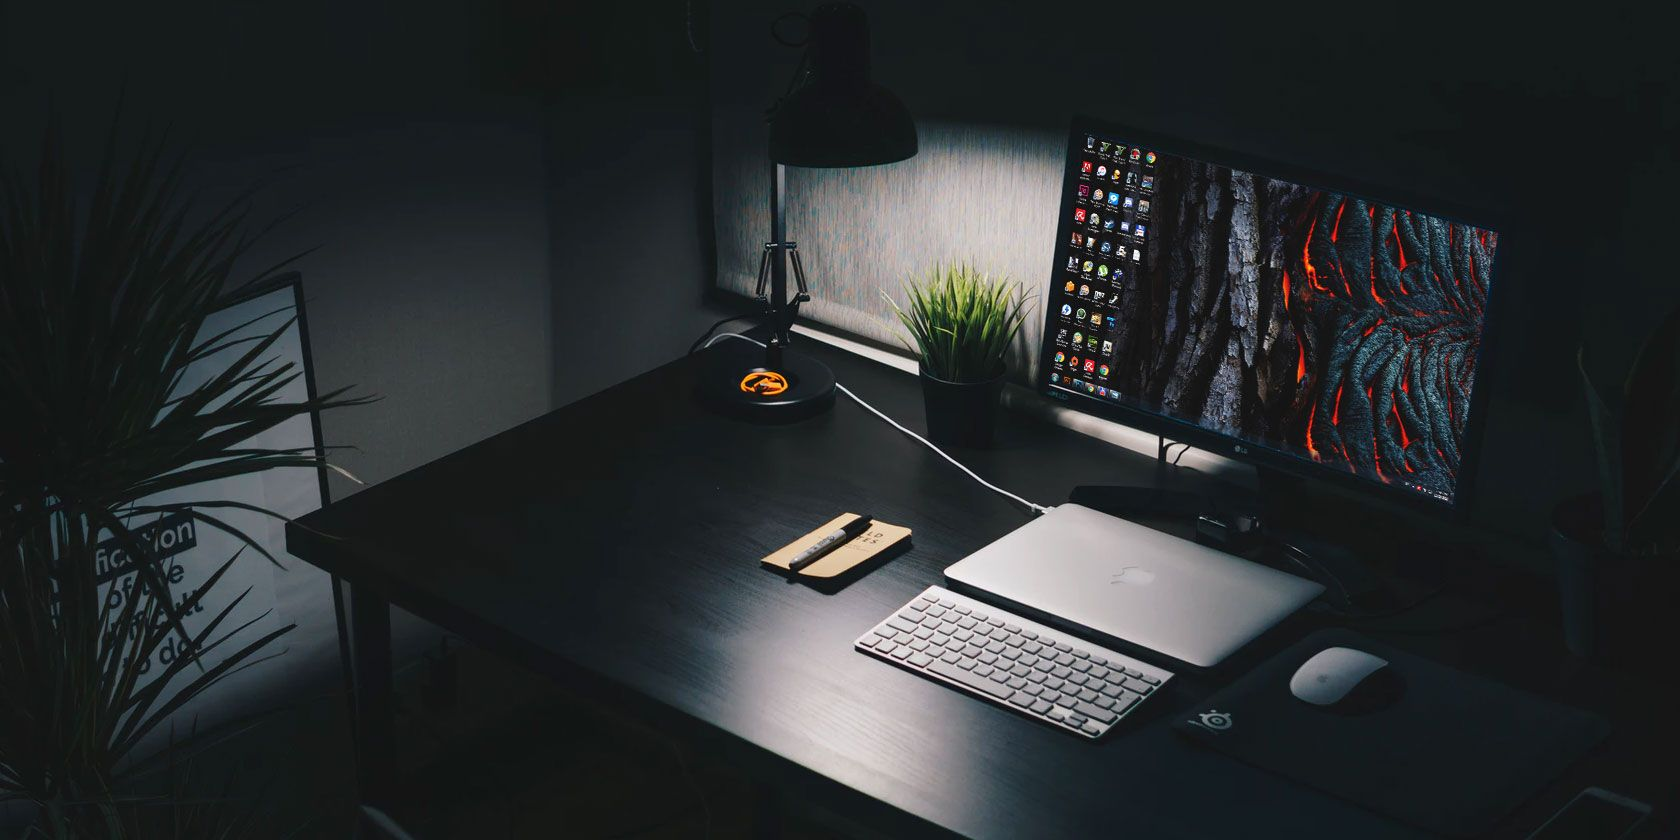
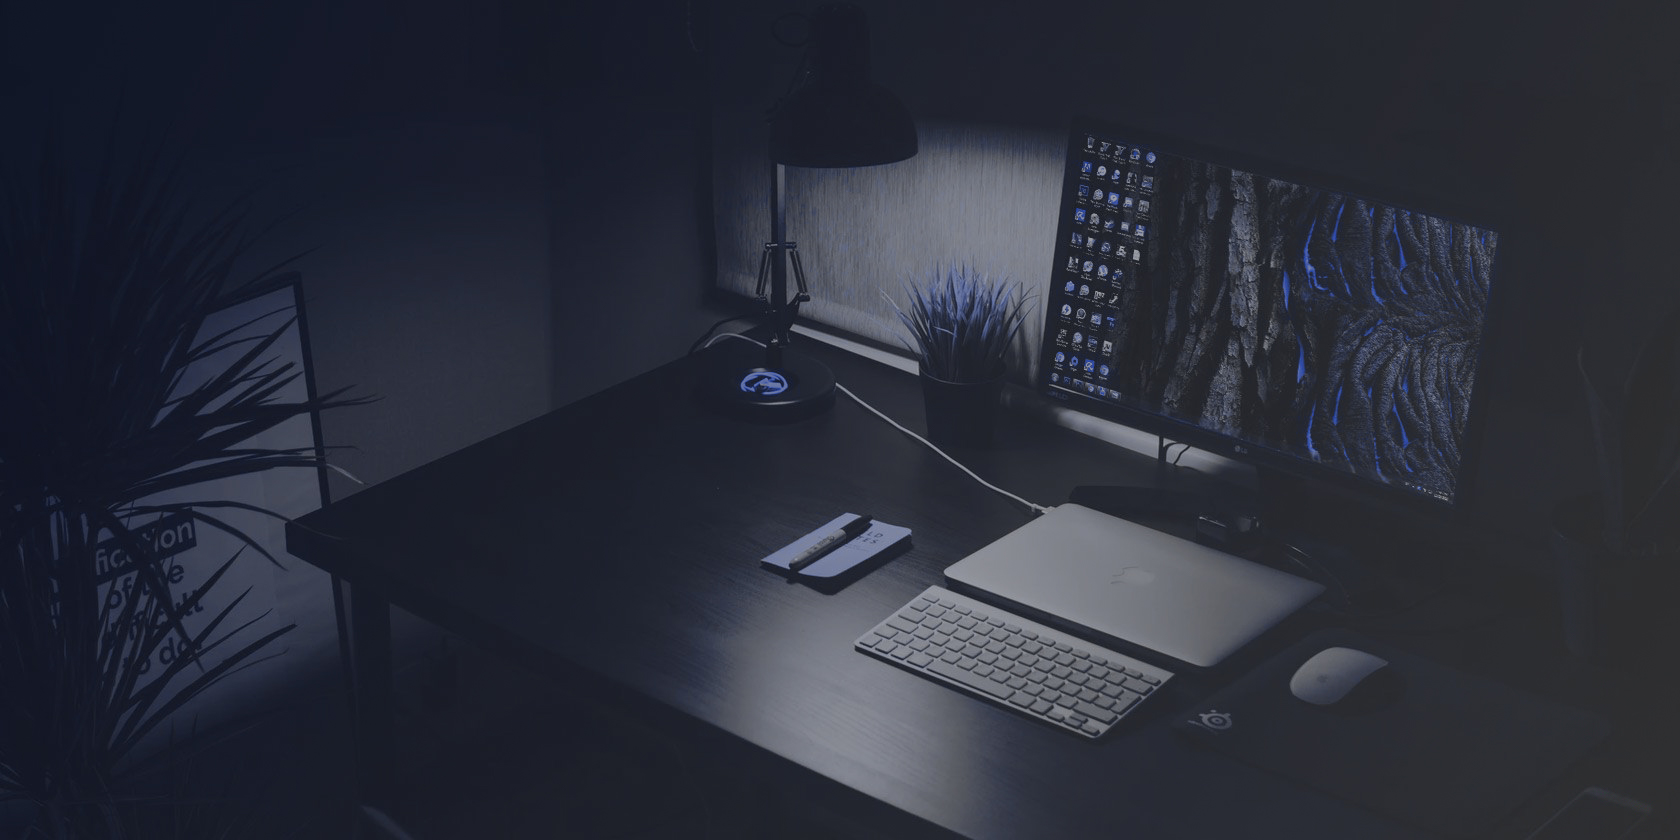
Some Pages and Background Updated

diff --git a/navigations/aboutMe.html b/navigations/aboutMe.html
@@ -27,6 +27,10 @@
         html,
         body {
             background-image: url("images/mainBG.jpg");
+            background-position: center;
+            background-repeat: no-repeat;
+            background-size: cover;
+            background-attachment: fixed;
             block-size: 100%;
             margin: 0;
             font-size: 1rem;

diff --git a/navigations/contactMe.html b/navigations/contactMe.html
@@ -27,6 +27,10 @@
         html,
         body {
             background-image: url("images/mainBG.jpg");
+            background-position: center;
+            background-repeat: no-repeat;
+            background-size: cover;
+            background-attachment: fixed;
             block-size: 100%;
             margin: 0;
             font-size: 1rem;

diff --git a/navigations/myCertificates.html b/navigations/myCertificates.html
@@ -26,6 +26,10 @@
         html,
         body {
             background-image: url("images/mainBG.jpg");
+            background-position: center;
+            background-repeat: no-repeat;
+            background-size: cover;
+            background-attachment: fixed;
             block-size: 100%;
             margin: 0;
             font-size: 1rem;

diff --git a/navigations/myProjects.html b/navigations/myProjects.html
@@ -26,6 +26,10 @@
         html,
         body {
             background-image: url("images/mainBG.jpg");
+            background-position: center;
+            background-repeat: no-repeat;
+            background-size: cover;
+            background-attachment: fixed;
             block-size: 100%;
             margin: 0;
             font-size: 1rem;

diff --git a/navigations/mySkills.html b/navigations/mySkills.html
@@ -26,6 +26,10 @@
         html,
         body {
             background-image: url("images/mainBG.jpg");
+            background-position: center;
+            background-repeat: no-repeat;
+            background-size: cover;
+            background-attachment: fixed;
             block-size: 100%;
             margin: 0;
             font-size: 1rem;
